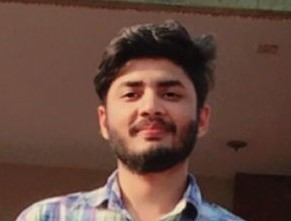
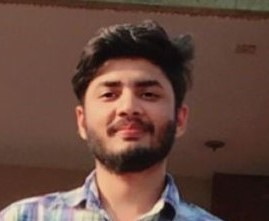
pic size update

diff --git a/mystle.css b/mystle.css
@@ -36,14 +36,9 @@ background: darkcyan;
 padding: 40px;
 }
 
-.container .right-side
-{
-position: relative;
-background: white;
-padding: 40px;
-}
 
-.container .profile-Text
+
+.profile-Text
 {
 position: relative;
 display: flex;
@@ -53,11 +48,27 @@ padding-bottom: 20px;
 border-bottom: 1px solid rgba(255, 255, 255, 0.2);
 }
 
-.container .image-box
+.profile-Text .image-box
 {
 position: relative;
 width: 200px;
 height: 200px;
 border-radius: 50%;
 overflow: hidden;
+}
+.profile-Text .image-box img
+{
+    position:absolute;
+    top: 0;
+    height: 100%;
+    left: 0;
+    width: 100%;
+}
+
+
+.container .right-side
+{
+position: relative;
+background: white;
+padding: 40px;
 }
